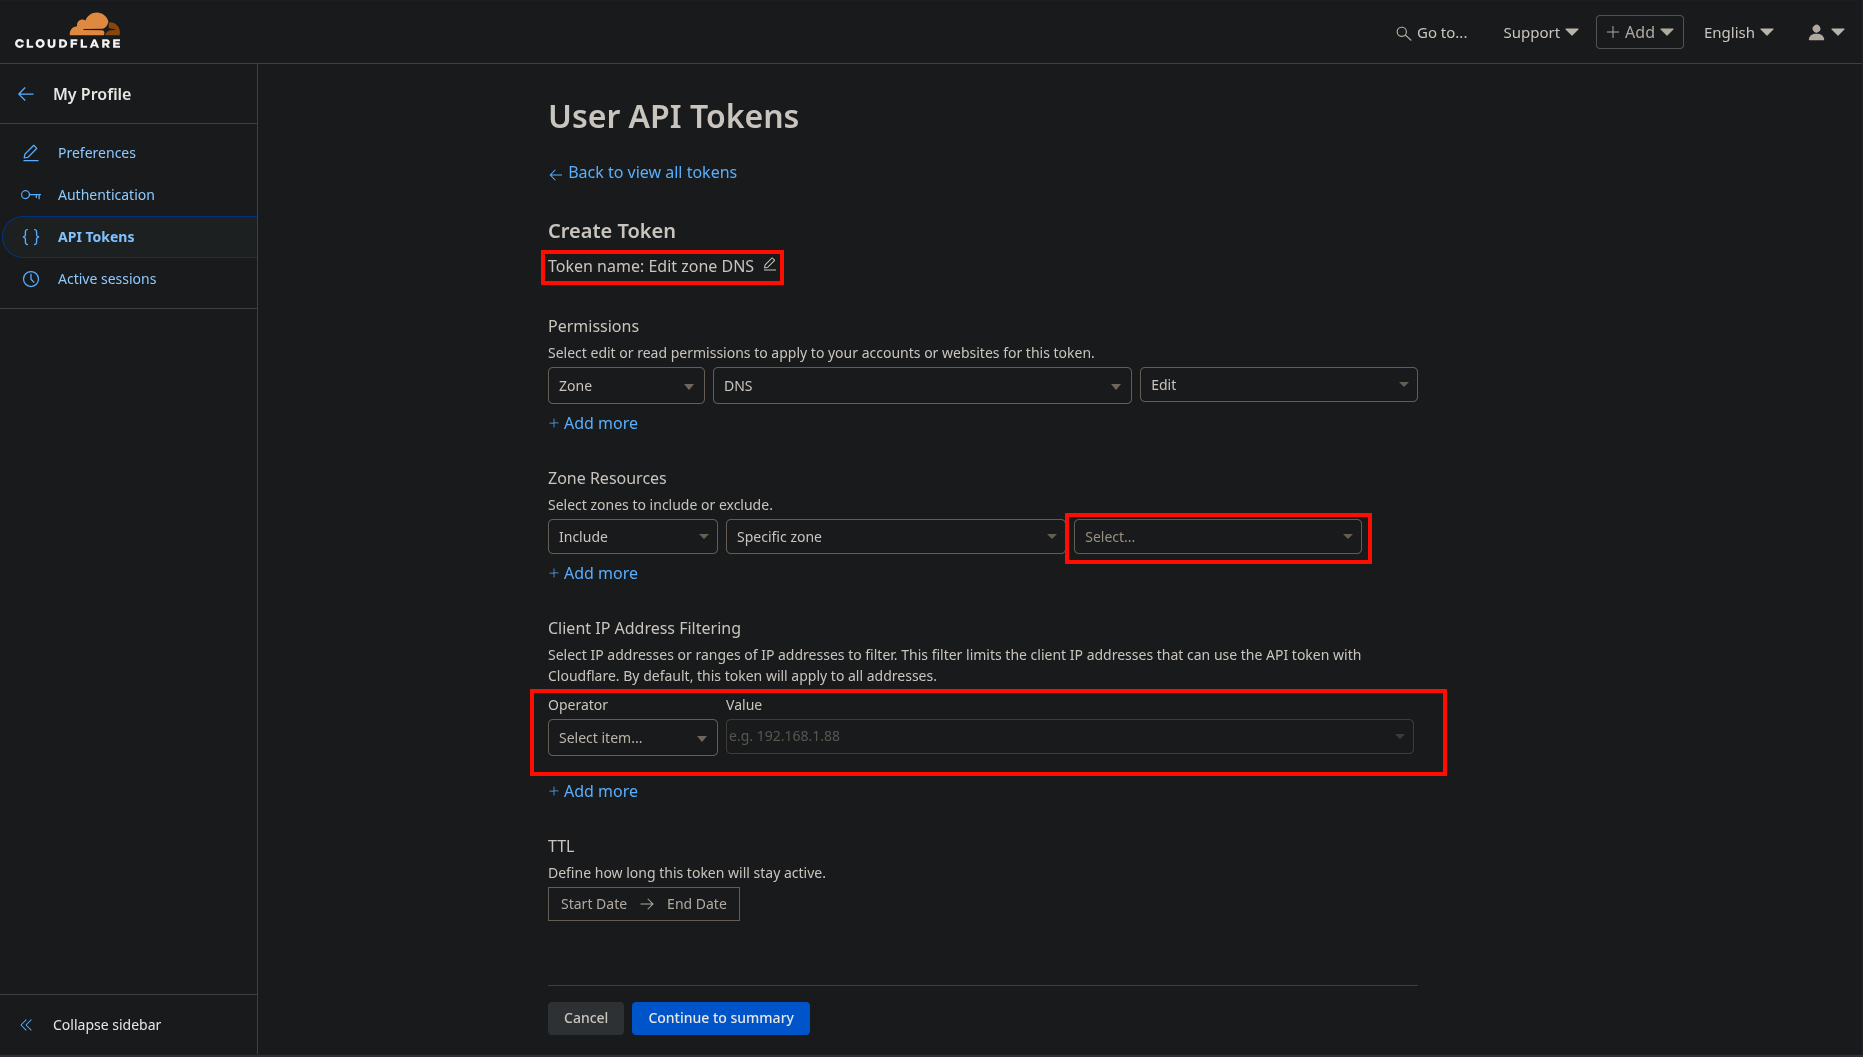
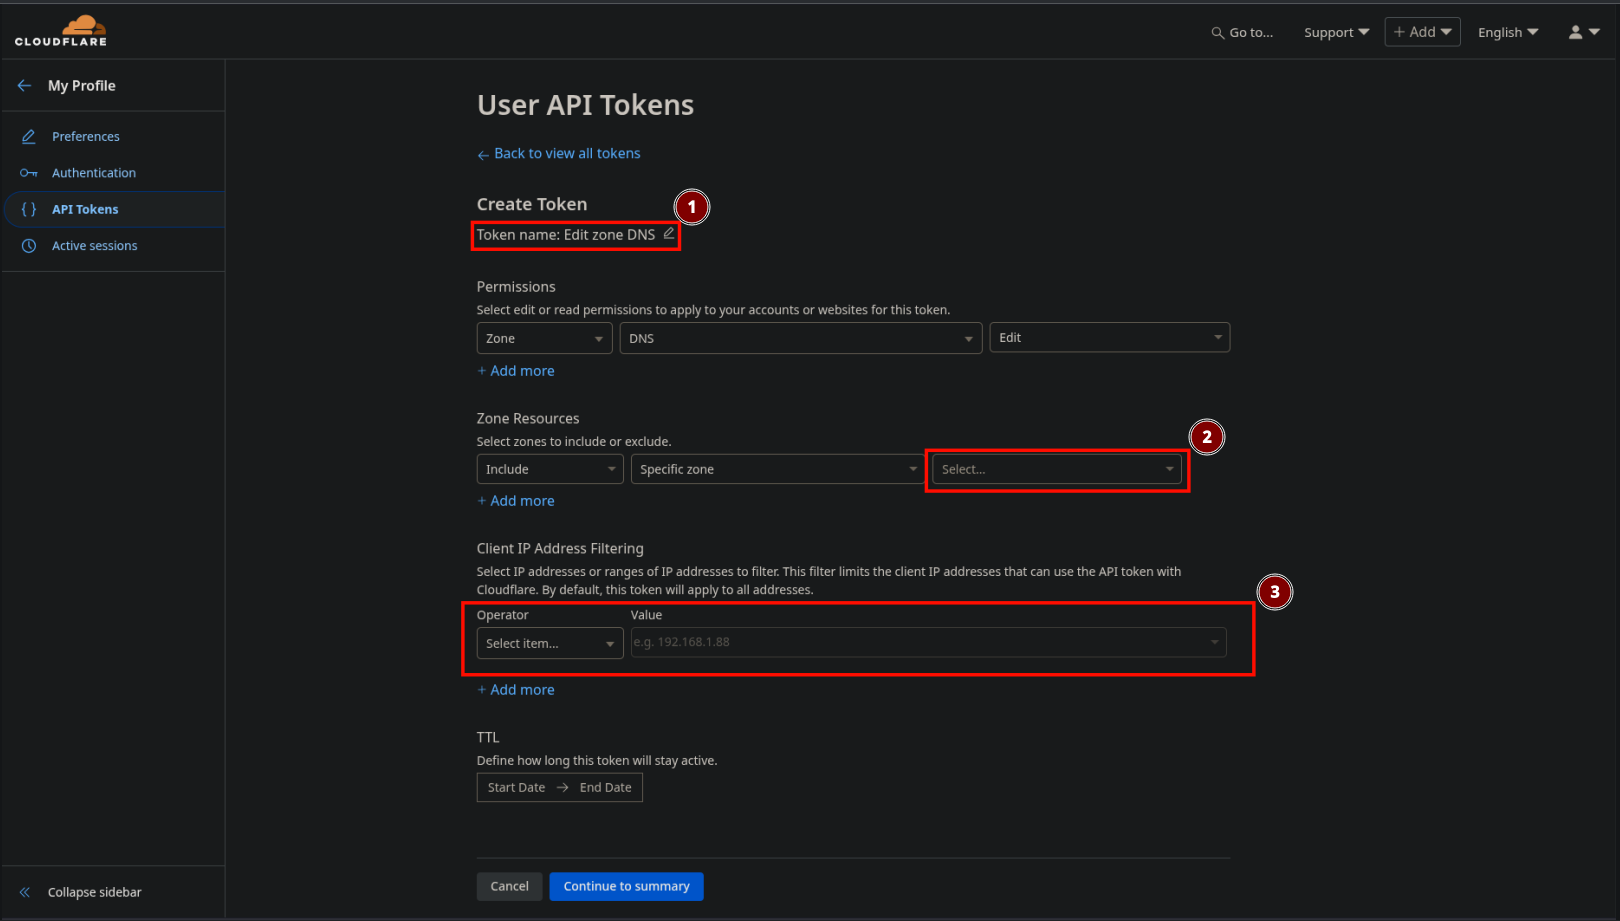
chore: edit wording

diff --git a/docs/A._Theorie/60_cloudflare-api-token.md b/docs/A._Theorie/60_cloudflare-api-token.md
@@ -1,8 +1,8 @@
 # 6. Cloudflare API Token erstellen
 
-Um die DNS-01 Challenge für die SSL-Zertifikate lösen zu können, benötigen wir einen API Token von Cloudflare.
+Um die ACME DNS-01 Challenge für die TLS-Zertifikate nutzen zu können, wird ein API Token von Cloudflare benötigt.
 
-Zum erstellen des API Tokens meldet man sich bei Cloudflare an und befolgt folgende Schritte:
+Zum Erstellen des API Tokens meldet man sich bei Cloudflare an und befolgt folgende Schritte:
 
 
 ## Navigiere zu "My Profile" und öffne den Reiter "API Tokens"
@@ -17,10 +17,9 @@ Zum erstellen des API Tokens meldet man sich bei Cloudflare an und befolgt folge
 
 ## Token konfigurieren
 
-[//]: # (TODO Frage: Namensgebung des Tokens vorschläge geben?)
-1. In der ersten roten Markierung den Namen für das Token vergeben.
-2. In der zweiten roten Markierung die Zone auswählen, für welche der Token gültig sein soll (können auch mehrere sein).
-3. In der dritten roten Markierung die IP Adressen des Server eintragen, welche den Token verwenden dürfen.
+1. Den Namen für das Token vergeben (Bsp.: Servername eintragen).
+2. Die Zone auswählen, für welche der Token gültig sein soll (können auch mehrere sein).
+3. Die IP Adressen des Server eintragen, welche den Token verwenden dürfen.
 -> Dort bietet sich an einerseits das IPv6 Subnet und andererseits die IPv4 Adresse einzutragen.
 
 ![Cloudflare Configure API Token](../img/cloudflare/create_token_window.png)
